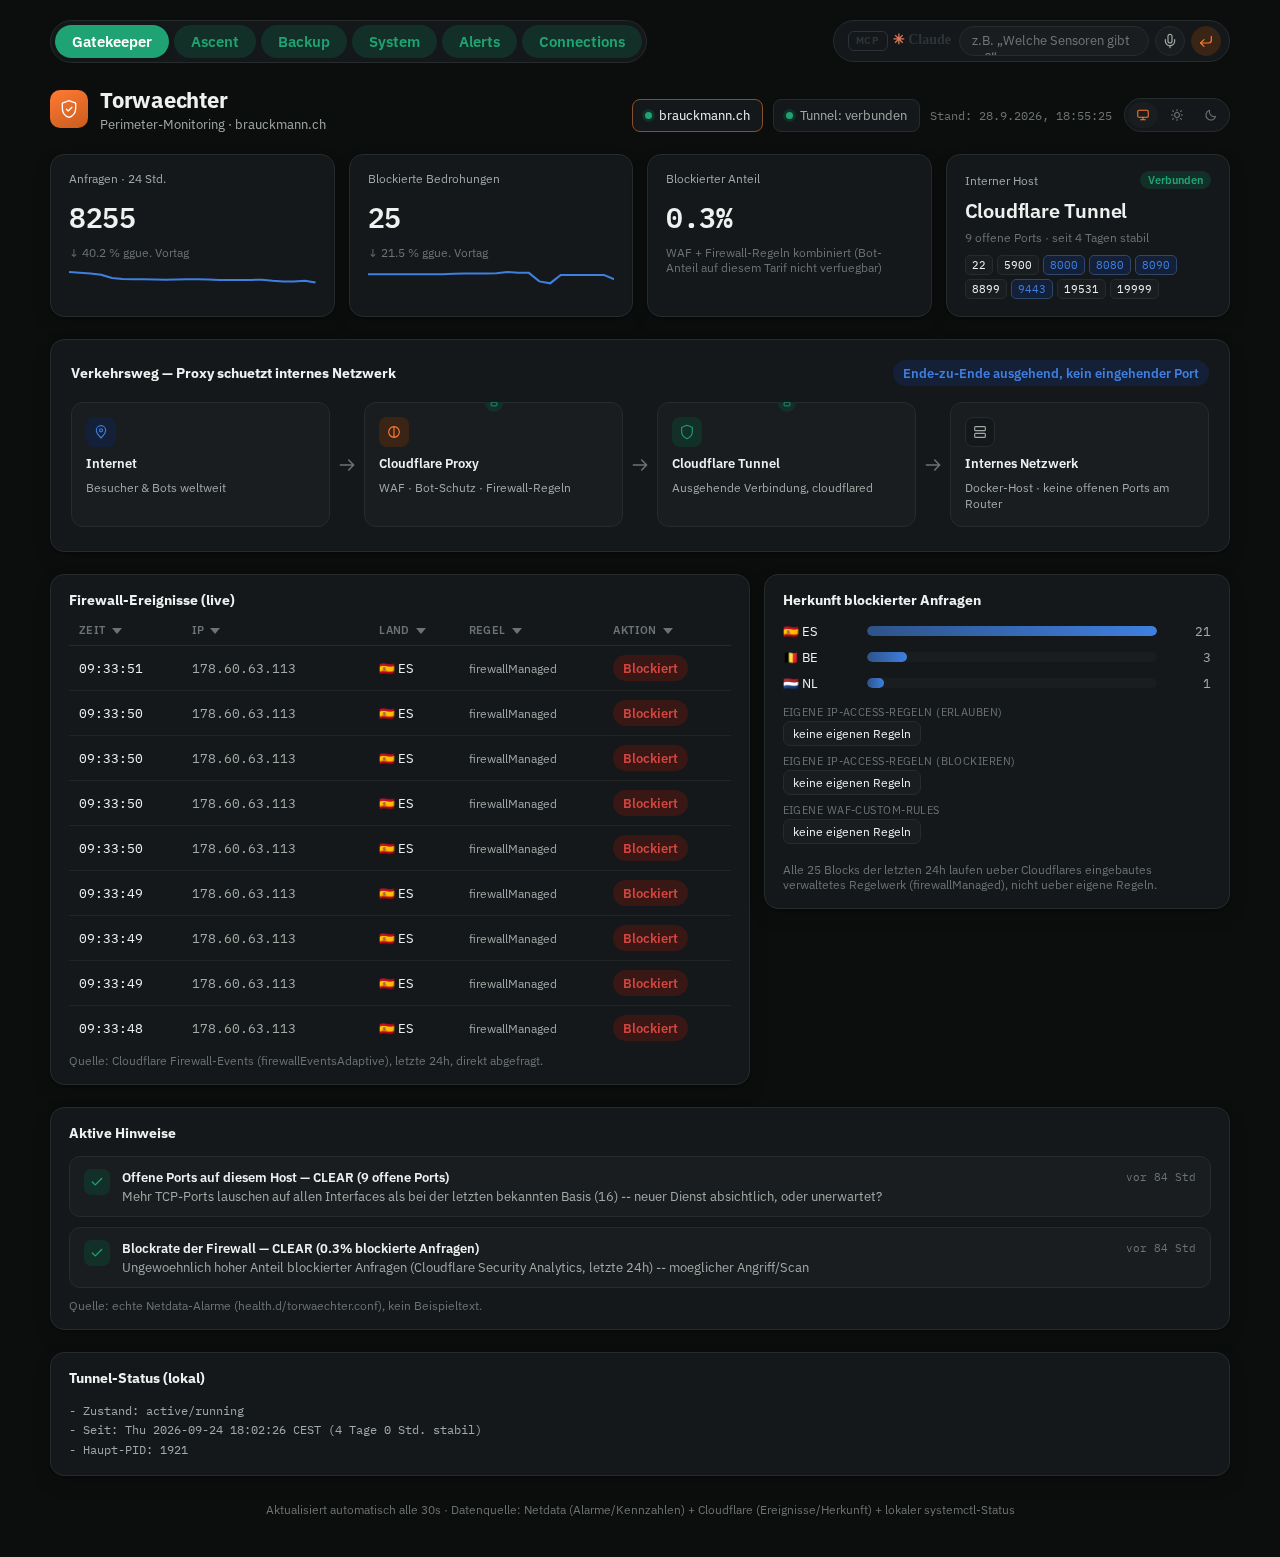
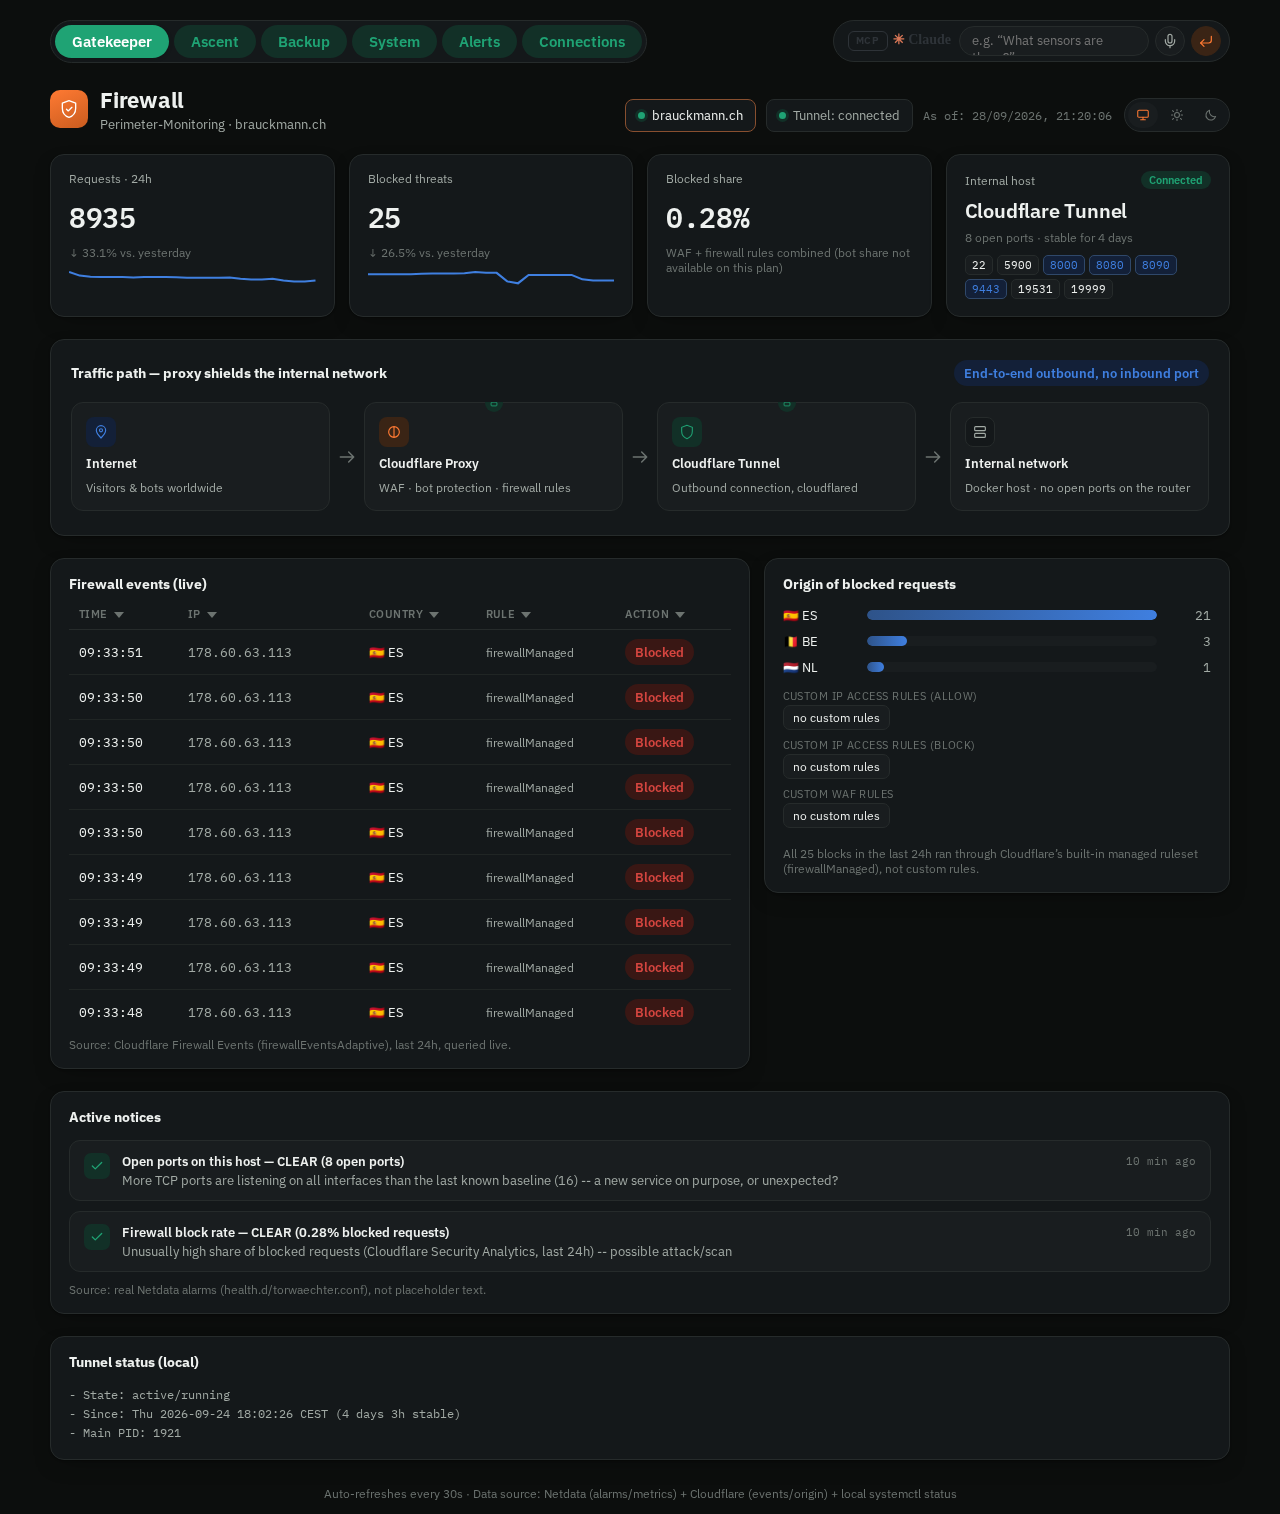
Blog-Artikel: alle sechs Dashboards als Trio-Animationen, Gatekeeper-Screenshot auf Englisch aktualisiert
Fixt nebenbei einen echten JS-Syntaxfehler auf der Firewall-Seite
(Cloudflare\'s -- Apostroph brach den String, ganzes Skript blieb bei
"loading..." haengen).

Claude-Session: https://claude.ai/code/session_01EHZYJujPwsqYxmz29T15Qp

diff --git a/dist/artikel/monitoring-homelab-teil-2-cloudflare-firewall/index.html b/dist/artikel/monitoring-homelab-teil-2-cloudflare-firewall/index.html
@@ -396,13 +396,17 @@ span.linenos.special { color: #000000; background-color: #ffffc0; padding-left: 
 
 <h2 id="teil-2-das-dashboard">Das neue Dashboard: alles auf einen Blick</h2>
 
-<figure class="shot-pair">
-<img class="bild-hell" src="/static/img/monitoring2-verbindungen-light.png" alt="Verbindungen-Dashboard: MCP-Server, Broker, Cloudflare, Google/Search Console, Wirtschaftskalender und LLM-Wrapper, alle auf Grün">
-<img class="bild-dunkel" src="/static/img/monitoring2-verbindungen-dark.png" alt="Verbindungen-Dashboard: MCP-Server, Broker, Cloudflare, Google/Search Console, Wirtschaftskalender und LLM-Wrapper, alle auf Grün">
-<figcaption>Das "Connections"-Dashboard: sechs Gruppen, alle grün -- Stand nach den beiden Fixes von heute Nachmittag.</figcaption>
-</figure>
+<p><em>Nachtrag vom selben Abend:</em> Die komplette Oberfläche lief bis eben auf Deutsch -- auf ausdrücklichen Wunsch jetzt komplett Englisch, bis in die Menüs und die von der KI selbst zusammengebauten Statustexte hinein, damit auch ein internationales Publikum sofort versteht, was da steht. Alle sechs Seiten, als zwei durchlaufende Dreiergruppen:</p>
 
-<p>Genau dieses Zusehen-können ist der Kern der neuen "Connections"-Seite. Sechs Gruppen, auf einen Blick:</p>
+<p>
+<img src="/static/img/monitoring2-dashboards-trio-a.gif" alt="Animation: Gatekeeper-, Ascent- und Backup-Dashboard im Wechsel" style="max-width:100%;border-radius:12px;border:1px solid var(--border)">
+</p>
+
+<p>
+<img src="/static/img/monitoring2-dashboards-trio-b.gif" alt="Animation: System-, Alerts- und Connections-Dashboard im Wechsel" style="max-width:100%;border-radius:12px;border:1px solid var(--border)">
+</p>
+
+<p>Genau dieses Zusehen-können ist der Kern der "Connections"-Seite (im zweiten Loop oben). Sechs Gruppen, auf einen Blick:</p>
 
 <ul>
 <li><strong>MCP-Server</strong> -- alle laufenden MCP-Prozesse dieses Ökosystems (Wirtschaftskalender, Produkte, Kontor-Status, dieser Server selbst), inklusive der Frage, ob der öffentliche Zugang über brauckmann.ch tatsächlich noch dort ankommt, wo er soll.</li>
@@ -422,7 +426,7 @@ span.linenos.special { color: #000000; background-color: #ffffc0; padding-left: 
 <figure class="shot-pair">
 <img class="bild-hell" src="/static/img/monitoring2-torwaechter-light.png" alt="Gatekeeper-Dashboard: Verkehrsweg Internet -> Cloudflare Proxy -> Cloudflare Tunnel -> Internes Netzwerk, ende-zu-ende ausgehend, kein eingehender Port">
 <img class="bild-dunkel" src="/static/img/monitoring2-torwaechter-dark.png" alt="Gatekeeper-Dashboard: Verkehrsweg Internet -> Cloudflare Proxy -> Cloudflare Tunnel -> Internes Netzwerk, ende-zu-ende ausgehend, kein eingehender Port">
-<figcaption>Das "Gatekeeper"-Dashboard: 8'256 Anfragen in 24 Stunden, 25 automatisch blockiert -- und der Weg, den jede einzelne davon nimmt.</figcaption>
+<figcaption>Das "Gatekeeper"-Dashboard: 8'935 Anfragen in 24 Stunden, 25 automatisch blockiert -- und der Weg, den jede einzelne davon nimmt.</figcaption>
 </figure>
 
 <p>Die kurze Fassung des Sicherheitsbilds: Es gibt zwei völlig unabhängige, öffentlich erreichbare Wege in dieses System hinein -- und keiner davon öffnet direkt einen Port am Server.</p>

diff --git a/articles/monitoring-homelab-teil-2-cloudflare-firewall.md b/articles/monitoring-homelab-teil-2-cloudflare-firewall.md
@@ -28,13 +28,17 @@ draft: false
 
 <h2 id="teil-2-das-dashboard">Das neue Dashboard: alles auf einen Blick</h2>
 
-<figure class="shot-pair">
-<img class="bild-hell" src="/static/img/monitoring2-verbindungen-light.png" alt="Verbindungen-Dashboard: MCP-Server, Broker, Cloudflare, Google/Search Console, Wirtschaftskalender und LLM-Wrapper, alle auf Grün">
-<img class="bild-dunkel" src="/static/img/monitoring2-verbindungen-dark.png" alt="Verbindungen-Dashboard: MCP-Server, Broker, Cloudflare, Google/Search Console, Wirtschaftskalender und LLM-Wrapper, alle auf Grün">
-<figcaption>Das "Connections"-Dashboard: sechs Gruppen, alle grün -- Stand nach den beiden Fixes von heute Nachmittag.</figcaption>
-</figure>
+<p><em>Nachtrag vom selben Abend:</em> Die komplette Oberfläche lief bis eben auf Deutsch -- auf ausdrücklichen Wunsch jetzt komplett Englisch, bis in die Menüs und die von der KI selbst zusammengebauten Statustexte hinein, damit auch ein internationales Publikum sofort versteht, was da steht. Alle sechs Seiten, als zwei durchlaufende Dreiergruppen:</p>
 
-<p>Genau dieses Zusehen-können ist der Kern der neuen "Connections"-Seite. Sechs Gruppen, auf einen Blick:</p>
+<p>
+<img src="/static/img/monitoring2-dashboards-trio-a.gif" alt="Animation: Gatekeeper-, Ascent- und Backup-Dashboard im Wechsel" style="max-width:100%;border-radius:12px;border:1px solid var(--border)">
+</p>
+
+<p>
+<img src="/static/img/monitoring2-dashboards-trio-b.gif" alt="Animation: System-, Alerts- und Connections-Dashboard im Wechsel" style="max-width:100%;border-radius:12px;border:1px solid var(--border)">
+</p>
+
+<p>Genau dieses Zusehen-können ist der Kern der "Connections"-Seite (im zweiten Loop oben). Sechs Gruppen, auf einen Blick:</p>
 
 <ul>
 <li><strong>MCP-Server</strong> -- alle laufenden MCP-Prozesse dieses Ökosystems (Wirtschaftskalender, Produkte, Kontor-Status, dieser Server selbst), inklusive der Frage, ob der öffentliche Zugang über brauckmann.ch tatsächlich noch dort ankommt, wo er soll.</li>
@@ -54,7 +58,7 @@ draft: false
 <figure class="shot-pair">
 <img class="bild-hell" src="/static/img/monitoring2-torwaechter-light.png" alt="Gatekeeper-Dashboard: Verkehrsweg Internet -> Cloudflare Proxy -> Cloudflare Tunnel -> Internes Netzwerk, ende-zu-ende ausgehend, kein eingehender Port">
 <img class="bild-dunkel" src="/static/img/monitoring2-torwaechter-dark.png" alt="Gatekeeper-Dashboard: Verkehrsweg Internet -> Cloudflare Proxy -> Cloudflare Tunnel -> Internes Netzwerk, ende-zu-ende ausgehend, kein eingehender Port">
-<figcaption>Das "Gatekeeper"-Dashboard: 8'256 Anfragen in 24 Stunden, 25 automatisch blockiert -- und der Weg, den jede einzelne davon nimmt.</figcaption>
+<figcaption>Das "Gatekeeper"-Dashboard: 8'935 Anfragen in 24 Stunden, 25 automatisch blockiert -- und der Weg, den jede einzelne davon nimmt.</figcaption>
 </figure>
 
 <p>Die kurze Fassung des Sicherheitsbilds: Es gibt zwei völlig unabhängige, öffentlich erreichbare Wege in dieses System hinein -- und keiner davon öffnet direkt einen Port am Server.</p>
